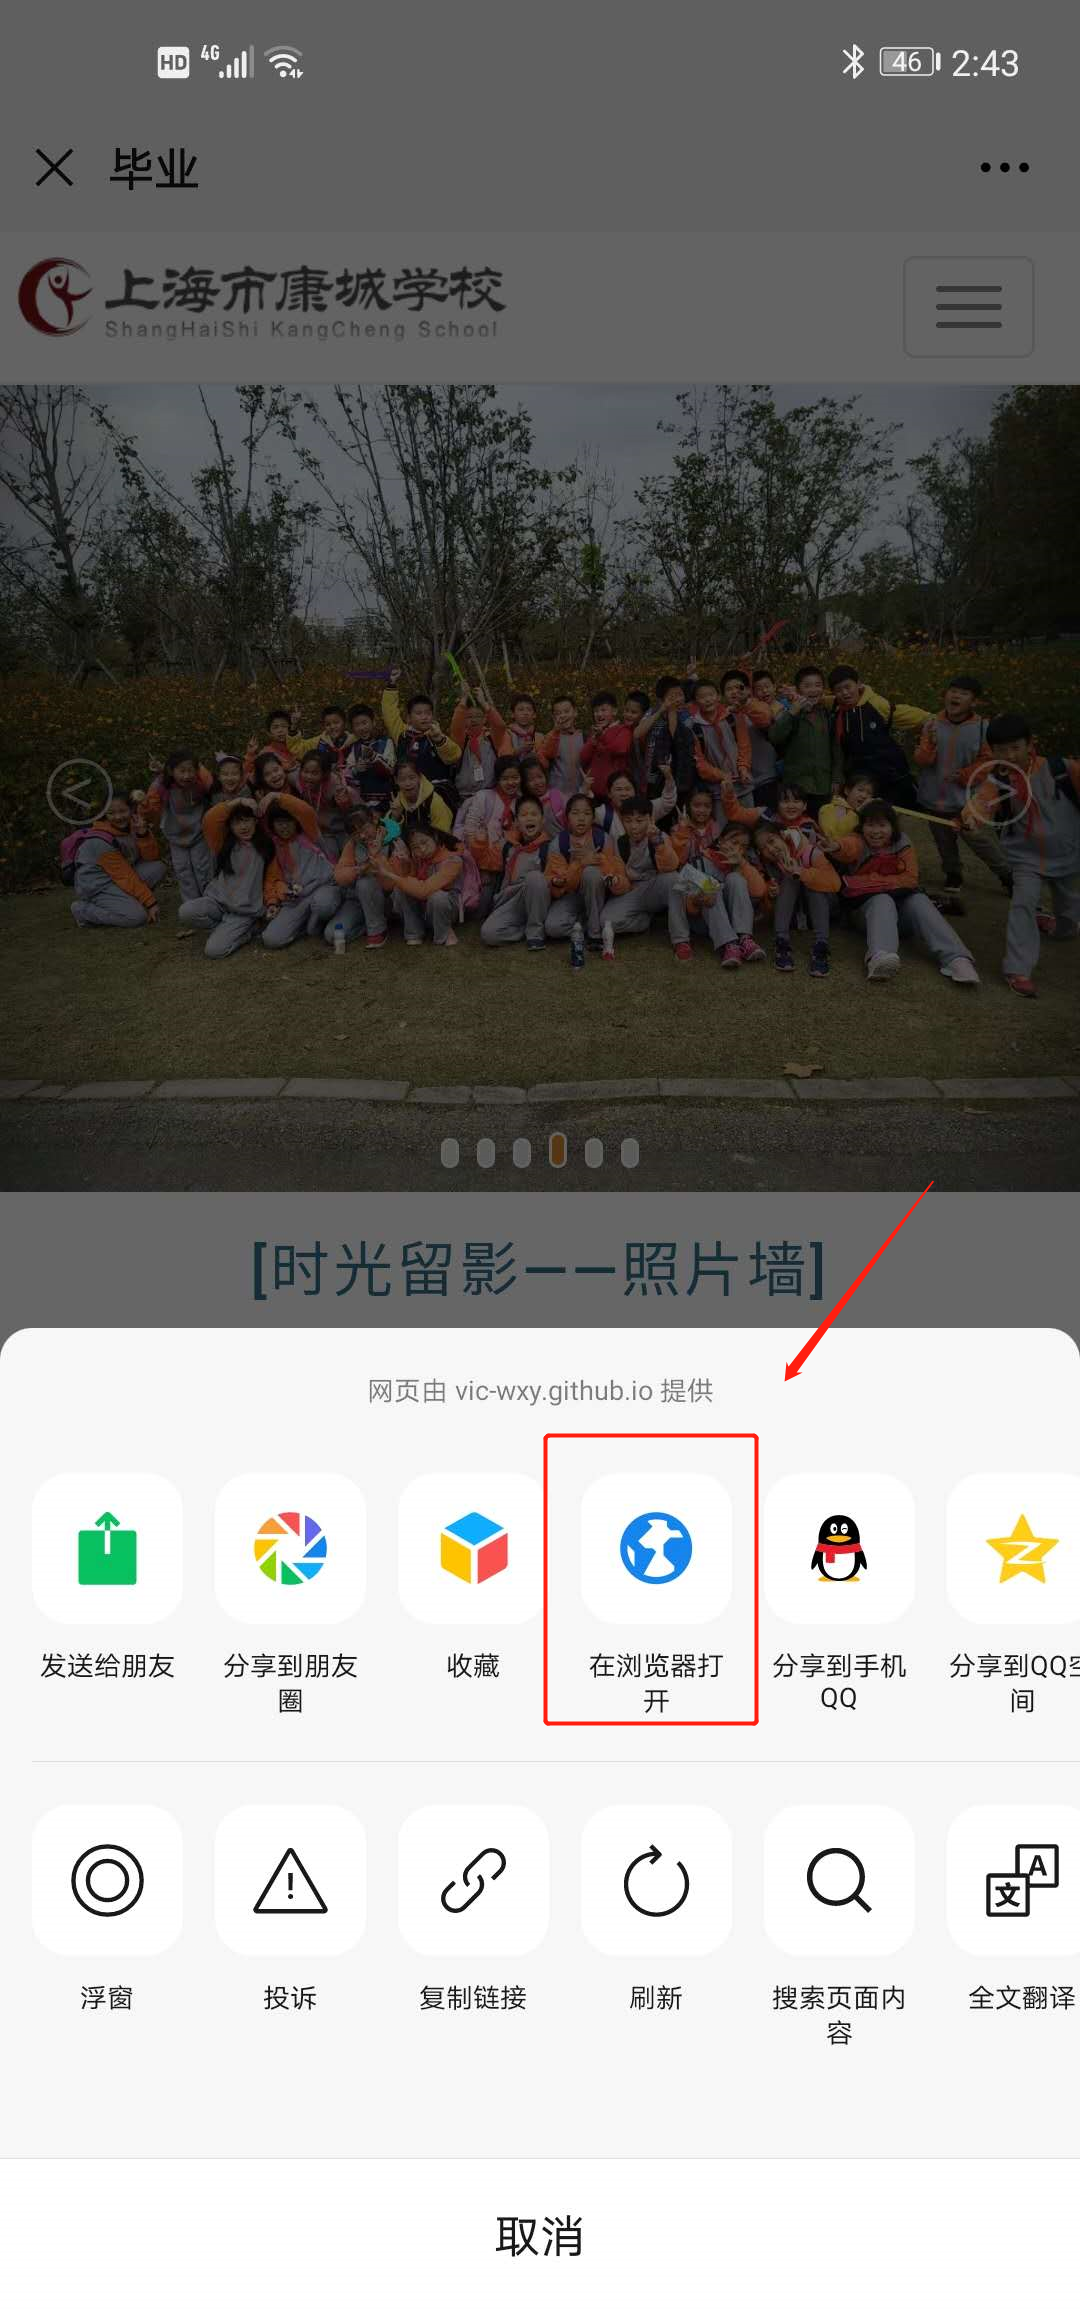
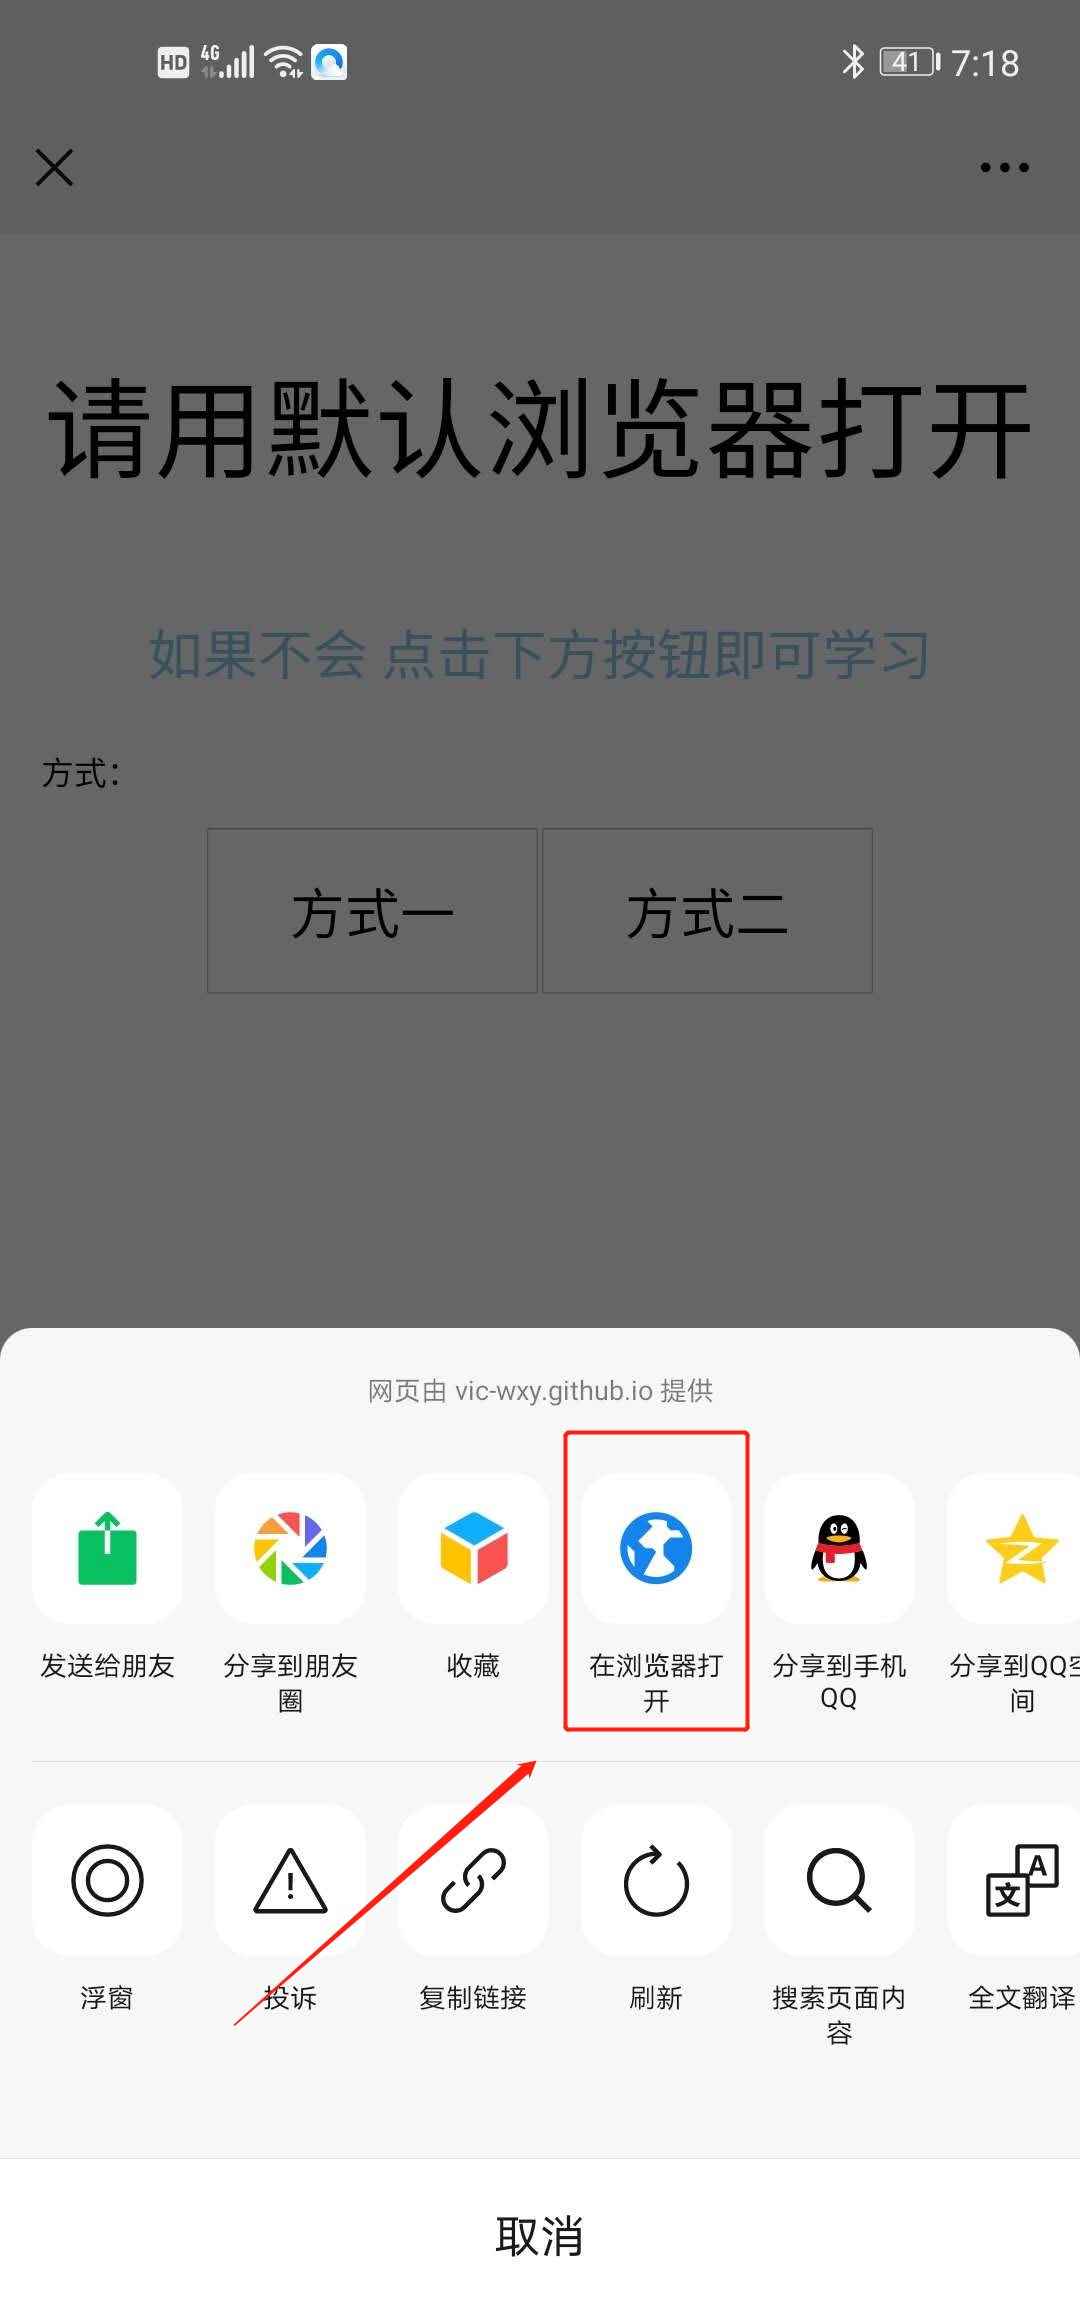
f

diff --git a/html/donotinthewechat_yd/first.html b/html/donotinthewechat_yd/first.html
@@ -5,6 +5,10 @@
 		<title></title>
 	</head>
 	<style>
+		#red{
+			color: red;
+			font-size: 35px;
+		}
 		#footer{
 			color: skyblue;
 			font-size: 35px;
@@ -17,14 +21,30 @@
 		
 	</style>
 	<body>
-		<p id="footer">1.首先打开网页</p>
-		<p id="footer">2.然后点击右上角散个点</p>
-		<img id="img" src="https://i.loli.net/2020/07/09/IuB6KdG9oTMbNUR.png" />
+		<p id="footer">1.首先打开网页(会显示需要用浏览器打开)</p>
+		<p id="footer">2.然后点击右上角散个点</p><p id="red">(注意：只需要在此界面点)</p>
+		<img id="img" src="https://i.loli.net/2020/07/09/wUYaQIctBOevGpM.png" />
 		<p id="footer">3.点击在浏览器打开</p>
-		<img id="img" src="https://i.loli.net/2020/07/09/QahHUqk1pyK7osr.png" />
+		<img id="img" src="https://i.loli.net/2020/07/09/7WmJyg6QuGlEMd4.png" />
 		<p id="footer">4.选择打开方式(有些人这步可能没有)</p>
-		<img  id="img" src="https://i.loli.net/2020/07/09/OXbhSV2fBpa1dWT.png" />
+		<img  id="img" src="https://i.loli.net/2020/07/09/XQVT2qKRJzd3NBI.png" />
 		<p id="footer">5.你就用浏览器打开了网页</p>
-		<img  id="img" src="https://i.loli.net/2020/07/09/9WUkjBu6bLe17Fs.png" />
+		<img  id="img" src="https://i.loli.net/2020/07/09/qvsHKUI6ogN7DwL.png" />
 	</body>
+	<script>
+		// function gotohttps(https){
+		// 	window.location.href=https;
+		// }
+		// function is_weixn(){
+		//     var ua = navigator.userAgent.toLowerCase();
+		//     if(ua.match(/MicroMessenger/i)=="micromessenger") {
+		//         return true;
+		//     } else {
+		//         return false;
+		//     }
+		// }
+		// if(!is_weixn()){
+		// 	gotohttps("https://vic-wxy.github.io/kcschool");
+		// }
+	</script>
 </html>

diff --git a/index.html b/index.html
@@ -222,10 +222,6 @@
 	if(is_weixn()){
 		if(/Android|webOS|iPhone|iPod|BlackBerry/i.test(navigator.userAgent)) {
 		    gotohttps("https://vic-wxy.github.io/kcschool/html/donotinthewechat_yd/donotinthewechat_yd.html");
-		} else {
-		    gotohttps("https://vic-wxy.github.io/kcschool/html/donotinthewechat_pc/donotinthewechat_pc.html");
-		}
-		
 	}
 </script>
 </html>
